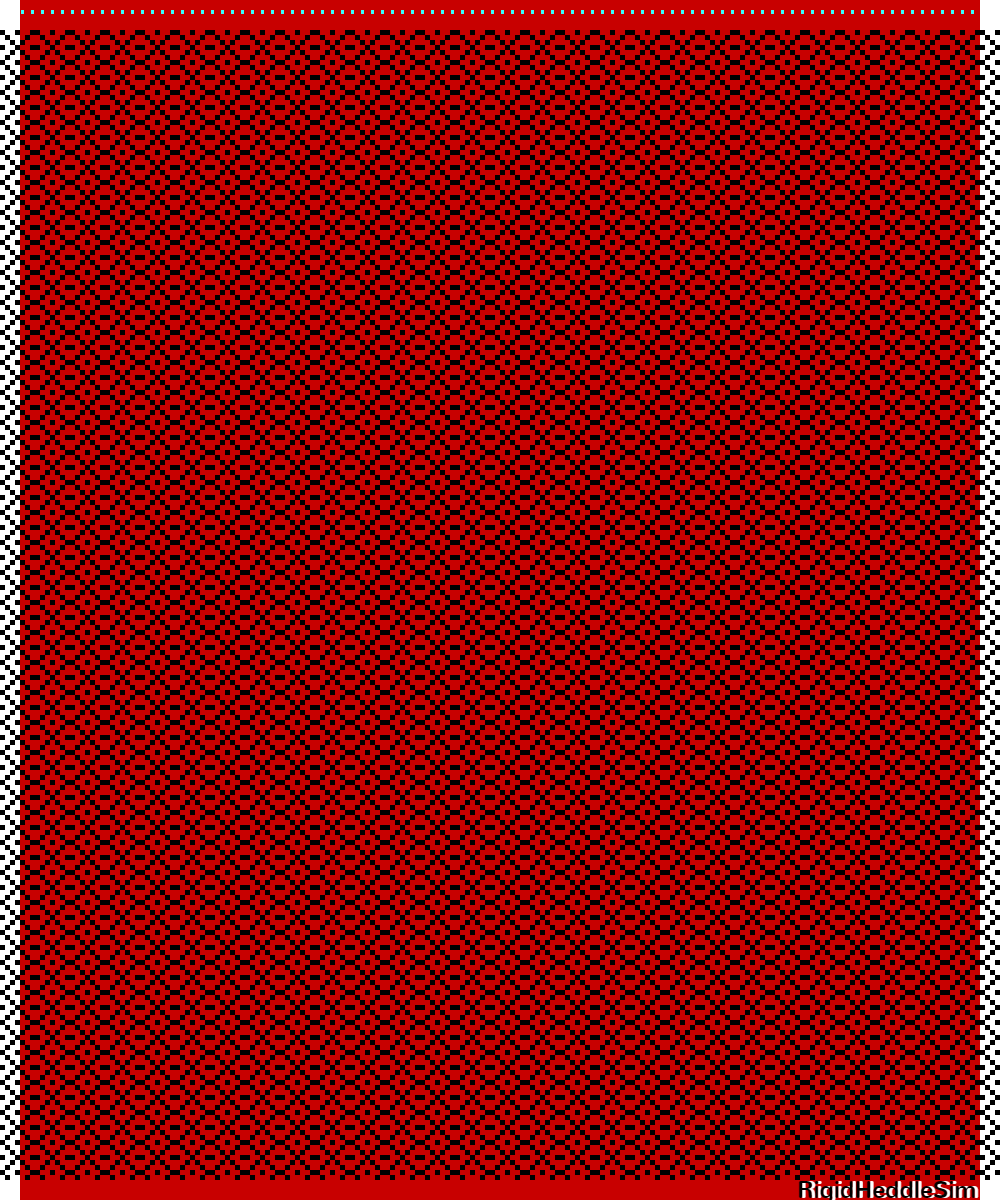
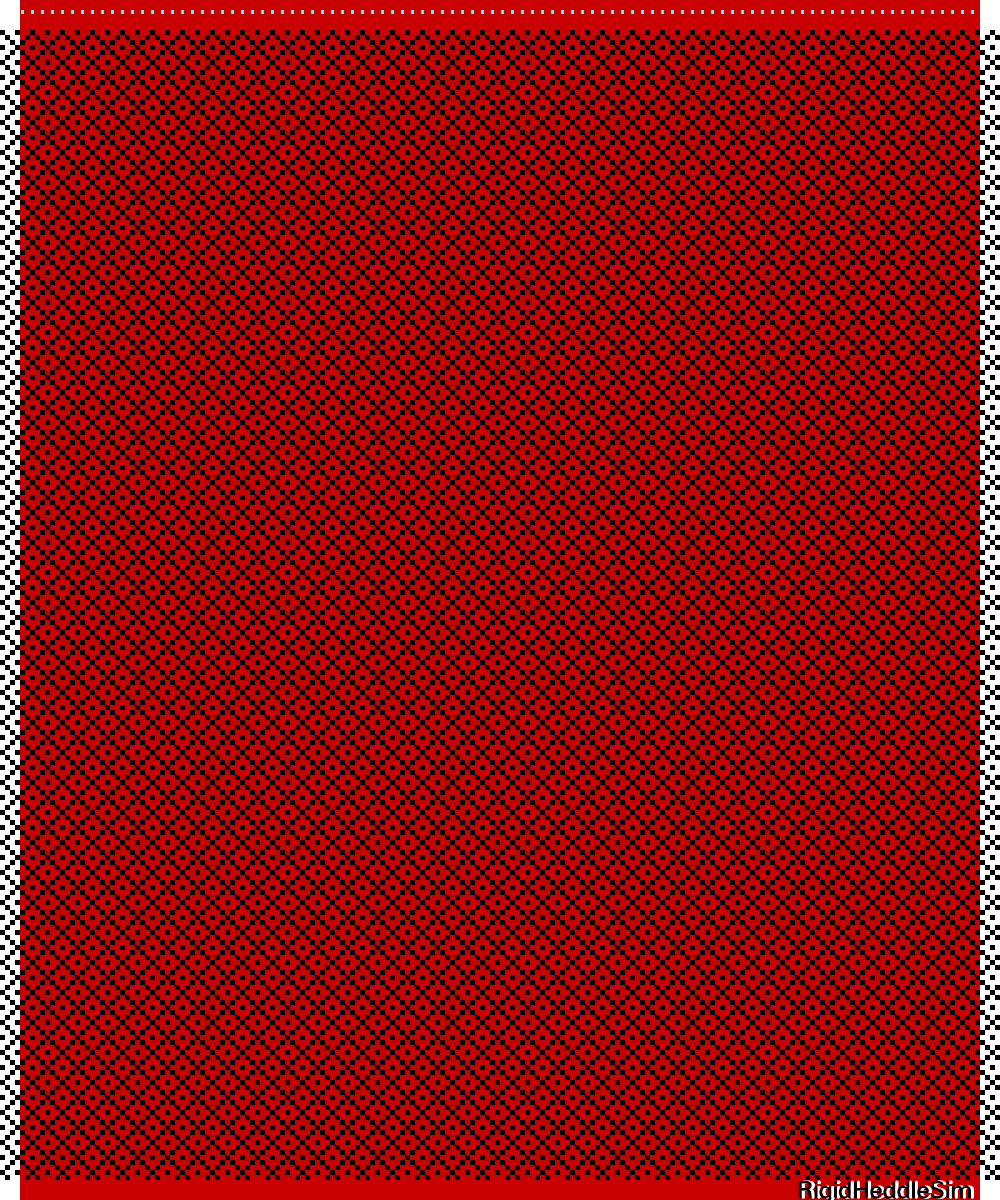
point twill is right

diff --git a/web/scripts/RigidHeddle/Model/Pick.dart b/web/scripts/RigidHeddle/Model/Pick.dart
@@ -82,21 +82,11 @@ class HeddleState {
 
     static List<List<HeddleState>> allForDoubleHeddles(List<Heddle> heddles) {
         List<List<HeddleState>> ret = new List<List<HeddleState>>();
-
-        for(String state1 in possibleStates) {
-            for(String state2 in possibleStates) {
-                //first if is just going for weft facing, not warp. up up is less important to us than down down
-                if(state1 != state2 || state1 == DOWN) {
-                    //second if avoids logical impossibilities like one being up and the other being down
-                    if(!(state1 == UP && state2 == DOWN) && !(state1 == DOWN && state2 == UP)) {
-                        ret.add([
-                            new HeddleState(heddles[0], state1),
-                            new HeddleState(heddles[1], state2)
-                        ]);
-                    }
-                }
-            }
-        }
+        //this isn't getting me what i want;
+        //these have priority because they are found in basic point twill
+        ret.add([new HeddleState(heddles[0], UP),new HeddleState(heddles[0], NEUTRAL)]);
+        ret.add([new HeddleState(heddles[0], NEUTRAL),new HeddleState(heddles[0], UP)]);
+        ret.add([new HeddleState(heddles[0], DOWN),new HeddleState(heddles[0], DOWN)]);
         return ret;
     }
 
